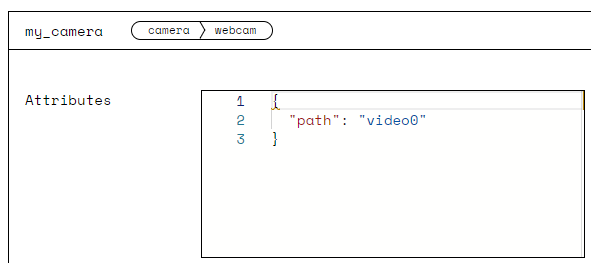
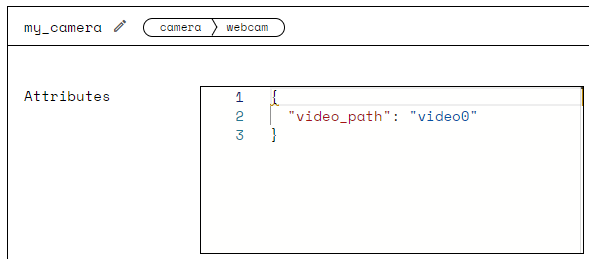
DAD-88 update video path string and add and fix footnotes

diff --git a/docs/tutorials/webcam-line-follower-robot.md b/docs/tutorials/webcam-line-follower-robot.md
@@ -83,7 +83,9 @@ We’ll use the Viam [vision service color detector](../../services/vision/#dete
 
 In the **Services** section of the **Config** tab, configure a color detector for the color of your tape line.
 
-- Use a color picker like [this one](https://colorpicker.me/) to approximate the color of your line and get the corresponding hexadecimal hash to put in your config. Put this hash in the `detect_color` parameter. We used #19FFD9 to represent the color of green electrical tape.
+- Use a color picker like <a href="https://colorpicker.me/" target="_blank">this one</a>[^colorpick] to approximate the color of your line and get the corresponding hexadecimal hash to put in your config. Put this hash in the `detect_color` parameter. We used #19FFD9 to represent the color of green electrical tape.
+
+[^colorpick]: Color picker: <a href="https://colorpicker.me/" target="_blank">https://colorpicker.me/</a>
   
 - We used a segment size of 100 pixels, and a tolerance of 0.06, but you can tweak these later to fine tune your line follower.
 
@@ -121,7 +123,7 @@ Below is an example JSON file that includes the board, base and camera component
     },
     {
       "attributes": {
-        "path_pattern": "video0"
+        "video_path_pattern": "video0"
       },
       "depends_on": [
         "follow-pi"
@@ -269,7 +271,7 @@ or if you have multiple versions of Python installed, try
 python3.9 --version
 ```
 We at Viam are running Python 3.9.2 for this tutorial.</li>
-<li class="spacing">Make sure you have the Viam Python SDK installed (<a href="https://github.com/viamrobotics/viam-python-sdk">Click for instructions</a>.)</li>
+<li class="spacing">Make sure you have the Viam Python SDK installed (<a href="https://python.viam.dev/">Click for instructions</a>.)</li>
 <li class="spacing">In this Pi terminal go ahead and run the code:
 
 ```bash
@@ -288,16 +290,13 @@ You have a rover following a path of your choice, anywhere you want it to go!
 
 ## Troubleshooting
 
-### Issue #1: The rover moves too fast to track the line
+### Issue: The rover moves too fast to track the line
 If your rover keeps driving off the line so fast that the color detector can’t keep up, you can try two things:
 
 1. Slow down the move straight and turning speeds of the rover by decreasing the  the numbers in `base.set_power(Vector3(y=0.3), Vector3())` and both instances of `base.set_power(Vector3(), Vector3(z=0.25))`.
     - Conversely, if your rover is moving too slowly or stalling, increase the numbers (closer to 1.0 which represents full power).</li>
 2. Position the camera differently, perhaps so that it is higher above the floor but still pointing downward. 
 This will give it a wider field of view so it takes longer for the line to go out of view.
-
-### Issue #2: N/A
-N/A
 
 ## Additional Troubleshooting
 

diff --git a/docs/components/board.md b/docs/components/board.md
@@ -216,7 +216,7 @@ If you are using a Raspberry Pi, the “built-in” chip select pins are labeled
 The required connections between corresponding board pins and peripheral device pins must be wired, but each of these pins does not need to be specified in the config as most boards have them configured by default.
 Only the index of the entire bus must be specified.
 
-[^spi]: Serial Peripheral Interface (SPI):[https://en.wikipedia.org/wiki/Serial_Peripheral_Interface] (https://en.wikipedia.org/wiki/Serial_Peripheral_Interface)
+[^spi]: Serial Peripheral Interface (SPI): [https://en.wikipedia.org/wiki/Serial_Peripheral_Interface](https://en.wikipedia.org/wiki/Serial_Peripheral_Interface)
 
 
 #### Configuration

diff --git a/docs/tutorials/scuttlebot.md b/docs/tutorials/scuttlebot.md
@@ -243,7 +243,7 @@ On the Camera Config panel:
 1. Enter "camera" in **Name**.
 2. Enter "camera" in **Model**.
 3. From **Depends On**, select "local".
-4. In the JSON, set <code>path_pattern</code> to "video0".
+4. In the JSON, set <code>video_path</code> to "video0".
 
 This is the code of your camera attributes if you wish to copy and paste it.
 
@@ -269,8 +269,8 @@ This is the code of your camera attributes if you wish to copy and paste it.
  "height_px": 0,
  "debug": false,
  "format": "",
- "path": "",
- "path_pattern": "video0"
+ "video_path": "video0",
+ "video_path_pattern": ""
 }
 ```
 
